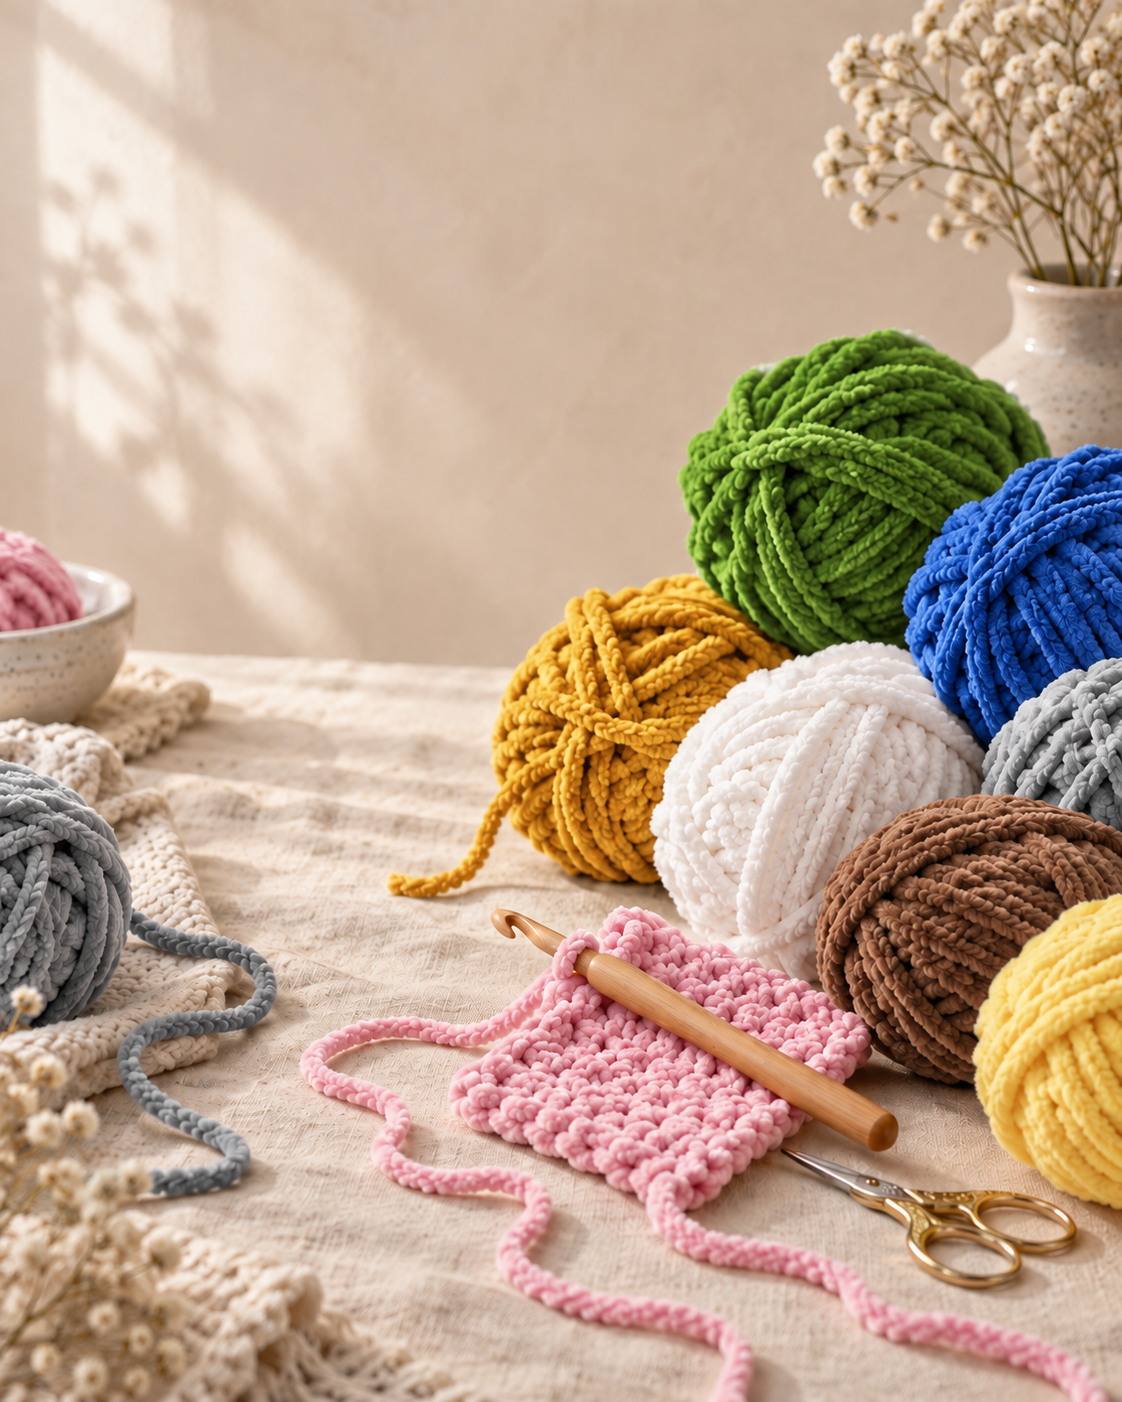
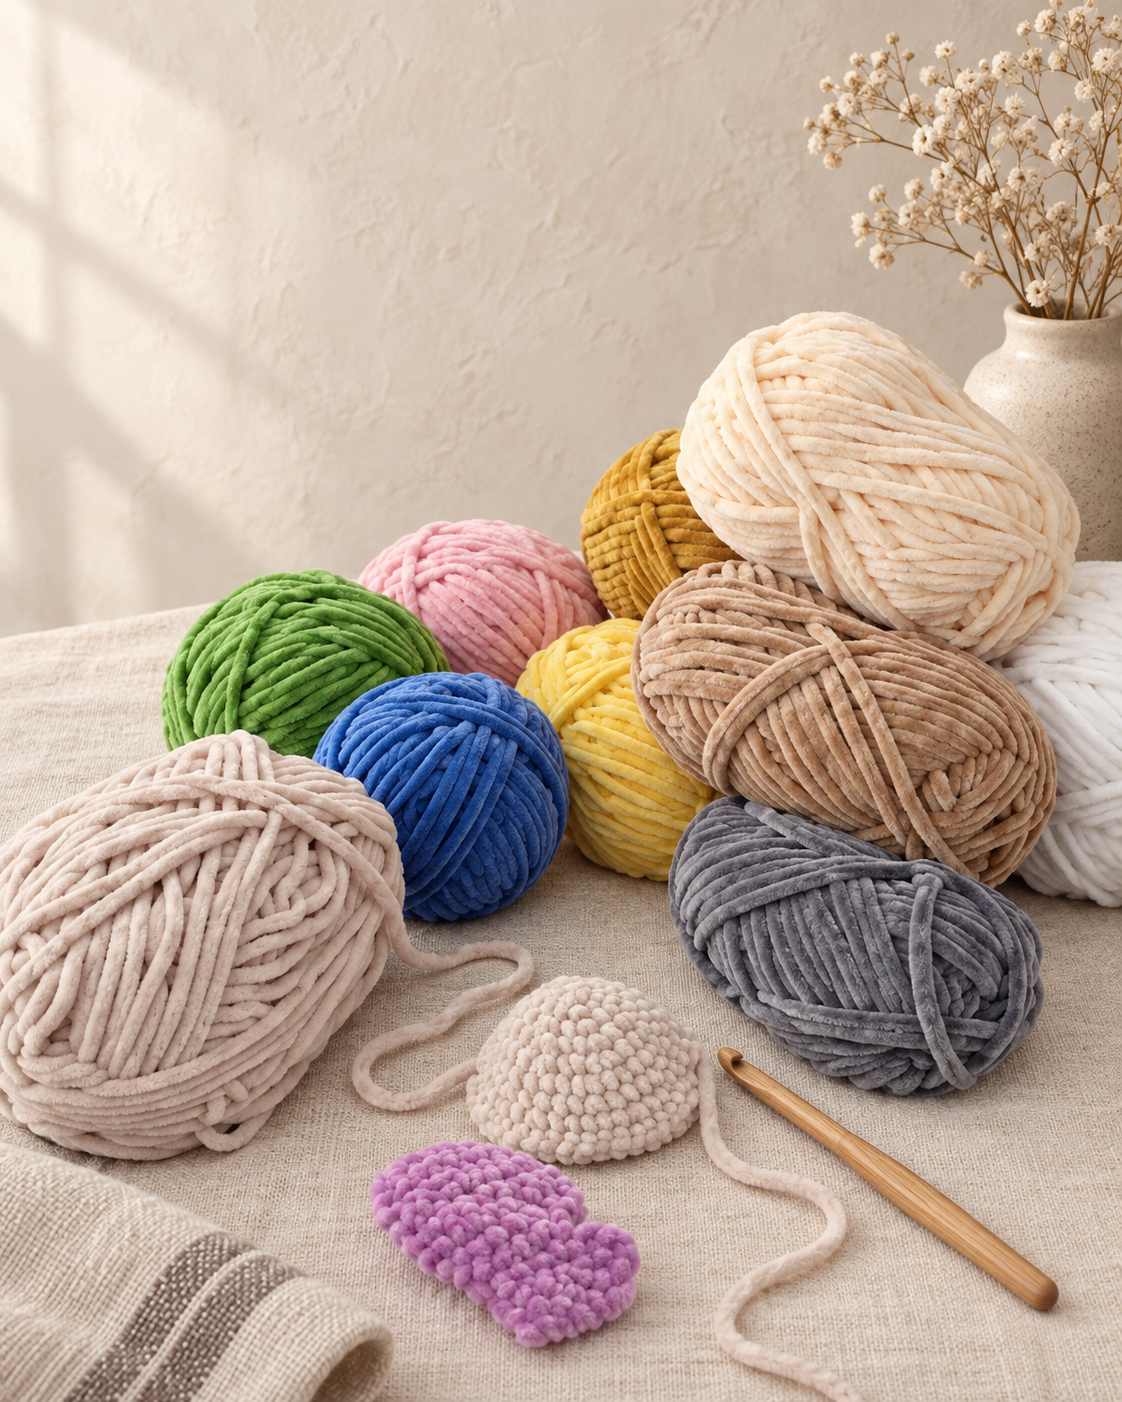
Add files via upload

diff --git a/igracke.html b/igracke.html
@@ -43,64 +43,64 @@
       <img src="./assets/lav.png" alt="Lav Leo">
       <div class="cardtext">
         <h2>Lav Leo</h2>
-        <p class="meta">Veliki plišanac</p>
-        <p>Lav sa bujnom grivom od petljica i belom njuškicom. Ruke i noge su pokretne, pa može da sedi uz dete u krevetu.</p>
+        <p class="meta">Visina ~35 cm</p>
+        <p>Lav sa bujnom grivom i nežnim izrazom lica. Iako je pravi mali kralj, najviše voli maženje, velike zagrljaje i društvo svog malog prijatelja.</p>
       </div>
     </article>
     <article>
       <img src="./assets/dino.png" alt="Dino Digi">
       <div class="cardtext">
         <h2>Dino Digi</h2>
-        <p class="meta">Veliki plišanac</p>
-        <p>Zeleni dinosaurus sa narandžastim šapama, belim kandžicama i bodljama od glave do repa. Jedan od naših najtraženijih modela.</p>
+        <p class="meta">Visina ~37 cm</p>
+        <p>Veliki dinosaurus sa karakterističnim bodljama od glave do repa. Digi je jedan od naših najtraženijih modela.</p>
       </div>
     </article>
     <article>
       <img src="./assets/vuk.png" alt="Vuk Vule">
       <div class="cardtext">
         <h2>Vuk Vule</h2>
-        <p class="meta">Veliki plišanac</p>
-        <p>Mekan sivi vuk sa belim šapama i mekanim trbuhom. Dovoljno velik za grljenje, dovoljno lak da ga dete nosi svuda.</p>
+        <p class="meta">Visina ~33 cm</p>
+        <p>Umiljati sivi vuk sa belim šapama i mekanim trbuhom. Dovoljno veliki za grljenje, a lagan da ga dete nosi uvek i svuda.</p>
       </div>
     </article>
     <article>
       <img src="./assets/krava.png" alt="Kravica Marica">
       <div class="cardtext">
         <h2>Kravica Marica</h2>
-        <p class="meta">Manji plišanac</p>
-        <p>Kravica sa plavom njuškicom, braon rogovima i velikim očima. Staje u dečiju ruku.</p>
+        <p class="meta">Visina ~15 cm</p>
+        <p>Mala, slatka kravica velikih očiju, savršenog oblika za male dečije ruke. Može biti napravljena sa zvečkom ili bez nje.</p>
       </div>
     </article>
     <article>
       <img src="./assets/meda-braon.png" alt="Meda Maza">
       <div class="cardtext">
         <h2>Meda Maza</h2>
-        <p class="meta">Srednji plišanac</p>
-        <p>Klasični meda u toploj braon nijansi, sa belom njuškicom. Naš prvi model - onaj od kog je sve počelo.</p>
+        <p class="meta">Visina ~25 cm</p>
+        <p>Mali meda, a veliki prijatelj. Naš prvi model - onaj od kog je sve počelo.</p>
       </div>
     </article>
     <article>
       <img src="./assets/zeka-ljubicasta.png" alt="Zekana Kiki">
       <div class="cardtext">
         <h2>Zekana Kiki</h2>
-        <p class="meta">Manji plišanac</p>
-        <p>Zeka od baršunastog prediva, taman toliko velika da spava pored bebe u krevecu.</p>
+        <p class="meta">Visina ~20 cm</p>
+        <p>Nežna zekana sa velikim ušima, stvorena za male ruke i velike zagrljaje od prvih dana života.</p>
       </div>
     </article>
     <article>
       <img src="./assets/hobotnica-roze.png" alt="Meduza Mimi">
       <div class="cardtext">
         <h2>Meduza Mimi</h2>
-        <p class="meta">Mala igračka</p>
-        <p>Roze hobotnica sa nasmejanim licem - najčešći poklon za nežne, male ruke.</p>
+        <p class="meta">Visina ~5 cm</p>
+        <p>Mekana meduza i nežna zvečka sa nasmejanim licem spremna da kroz igru izmami prvi osmeh.</p>
       </div>
     </article>
     <article>
       <img src="./assets/srce-roze.png" alt="Srculence">
       <div class="cardtext">
         <h2>Srculence</h2>
-        <p class="meta">Jastučić</p>
-        <p>Veliko roze srce sa nasmejanim licem i dugim nogicama. Meko koliko i jastuk.</p>
+        <p class="meta">Visina ~25 cm</p>
+        <p>Mekano srce sa rukama i nogama spremno za zagrljaje i da nekome bude mali podsetnik da ljubav može da stane na dlan.</p>
       </div>
     </article>
   </div>
